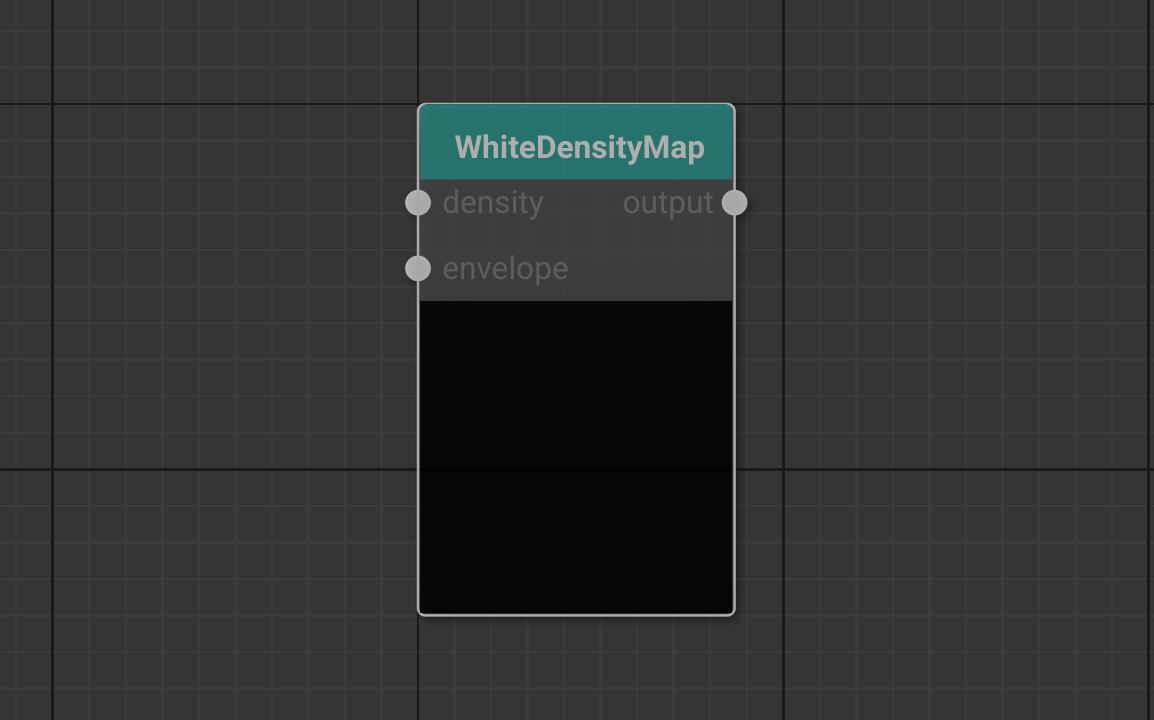
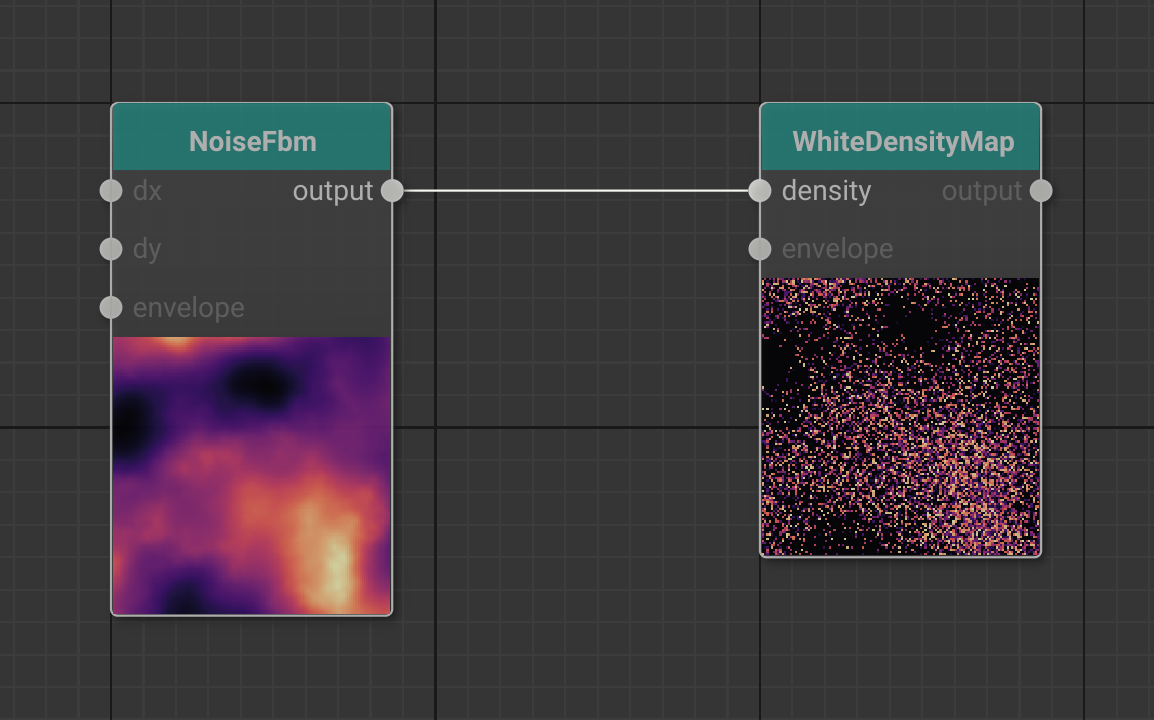
Add WhiteDensityMap doc example

diff --git a/Hesiod/src/model/add_graph_example.cpp b/Hesiod/src/model/add_graph_example.cpp
@@ -445,7 +445,8 @@ QtNodes::NodeId add_graph_example(HsdDataFlowGraphModel *p_model,
 
     if (main_category == "Filter" || main_category == "Mask" || main_category == "Math" ||
         main_category == "Operator" || main_category == "Morphology" ||
-        main_category == "Features" || main_category == "Erosion")
+        main_category == "Features" || main_category == "Erosion" ||
+        node_type == "WhiteDensityMap")
     {
       QtNodes::NodeId node_id1 = p_model->addNode("NoiseFbm");
       QtNodes::NodeId node_id2 = p_model->addNode(QString::fromStdString(node_type));
